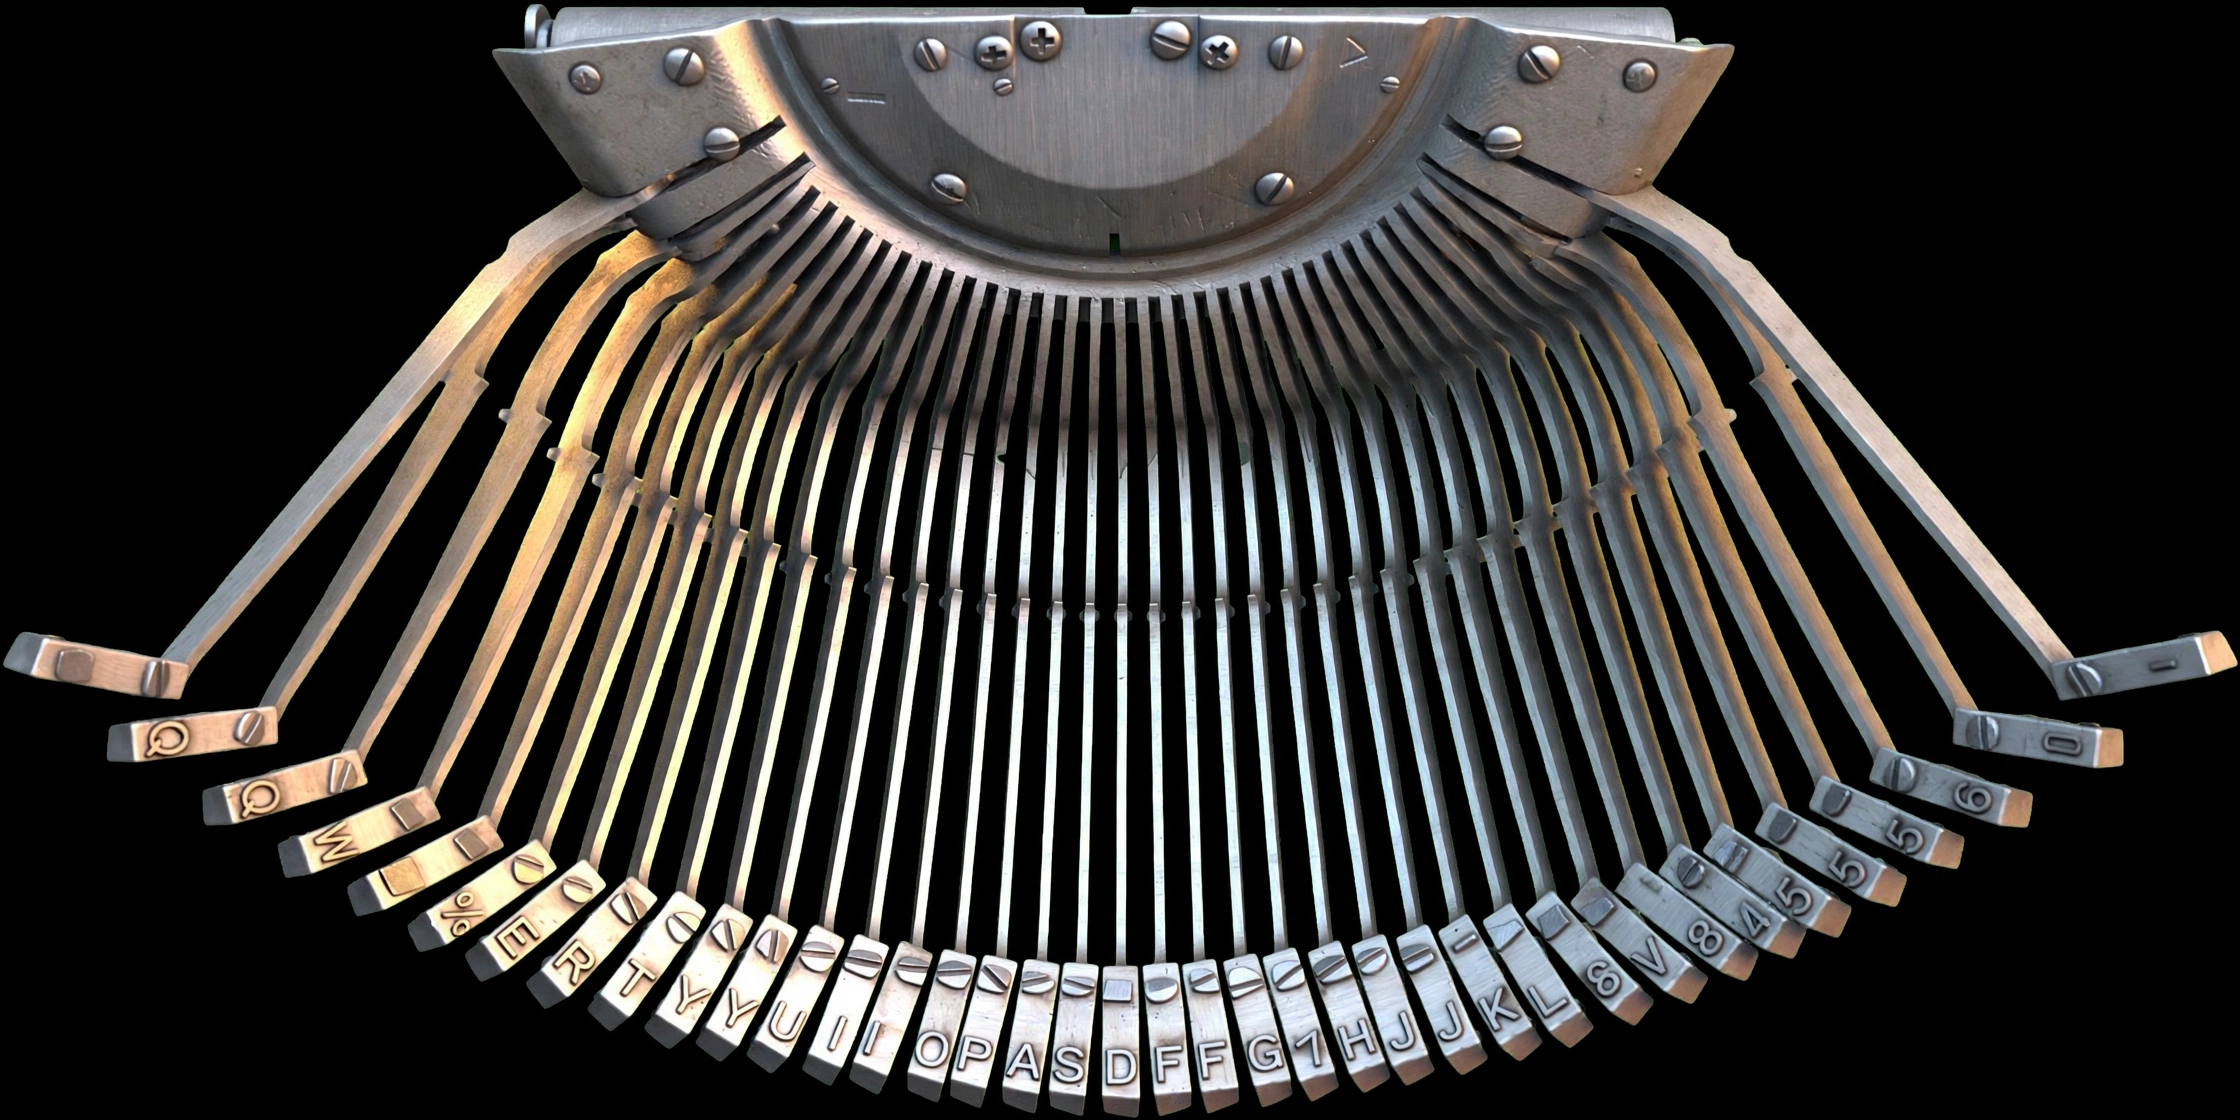
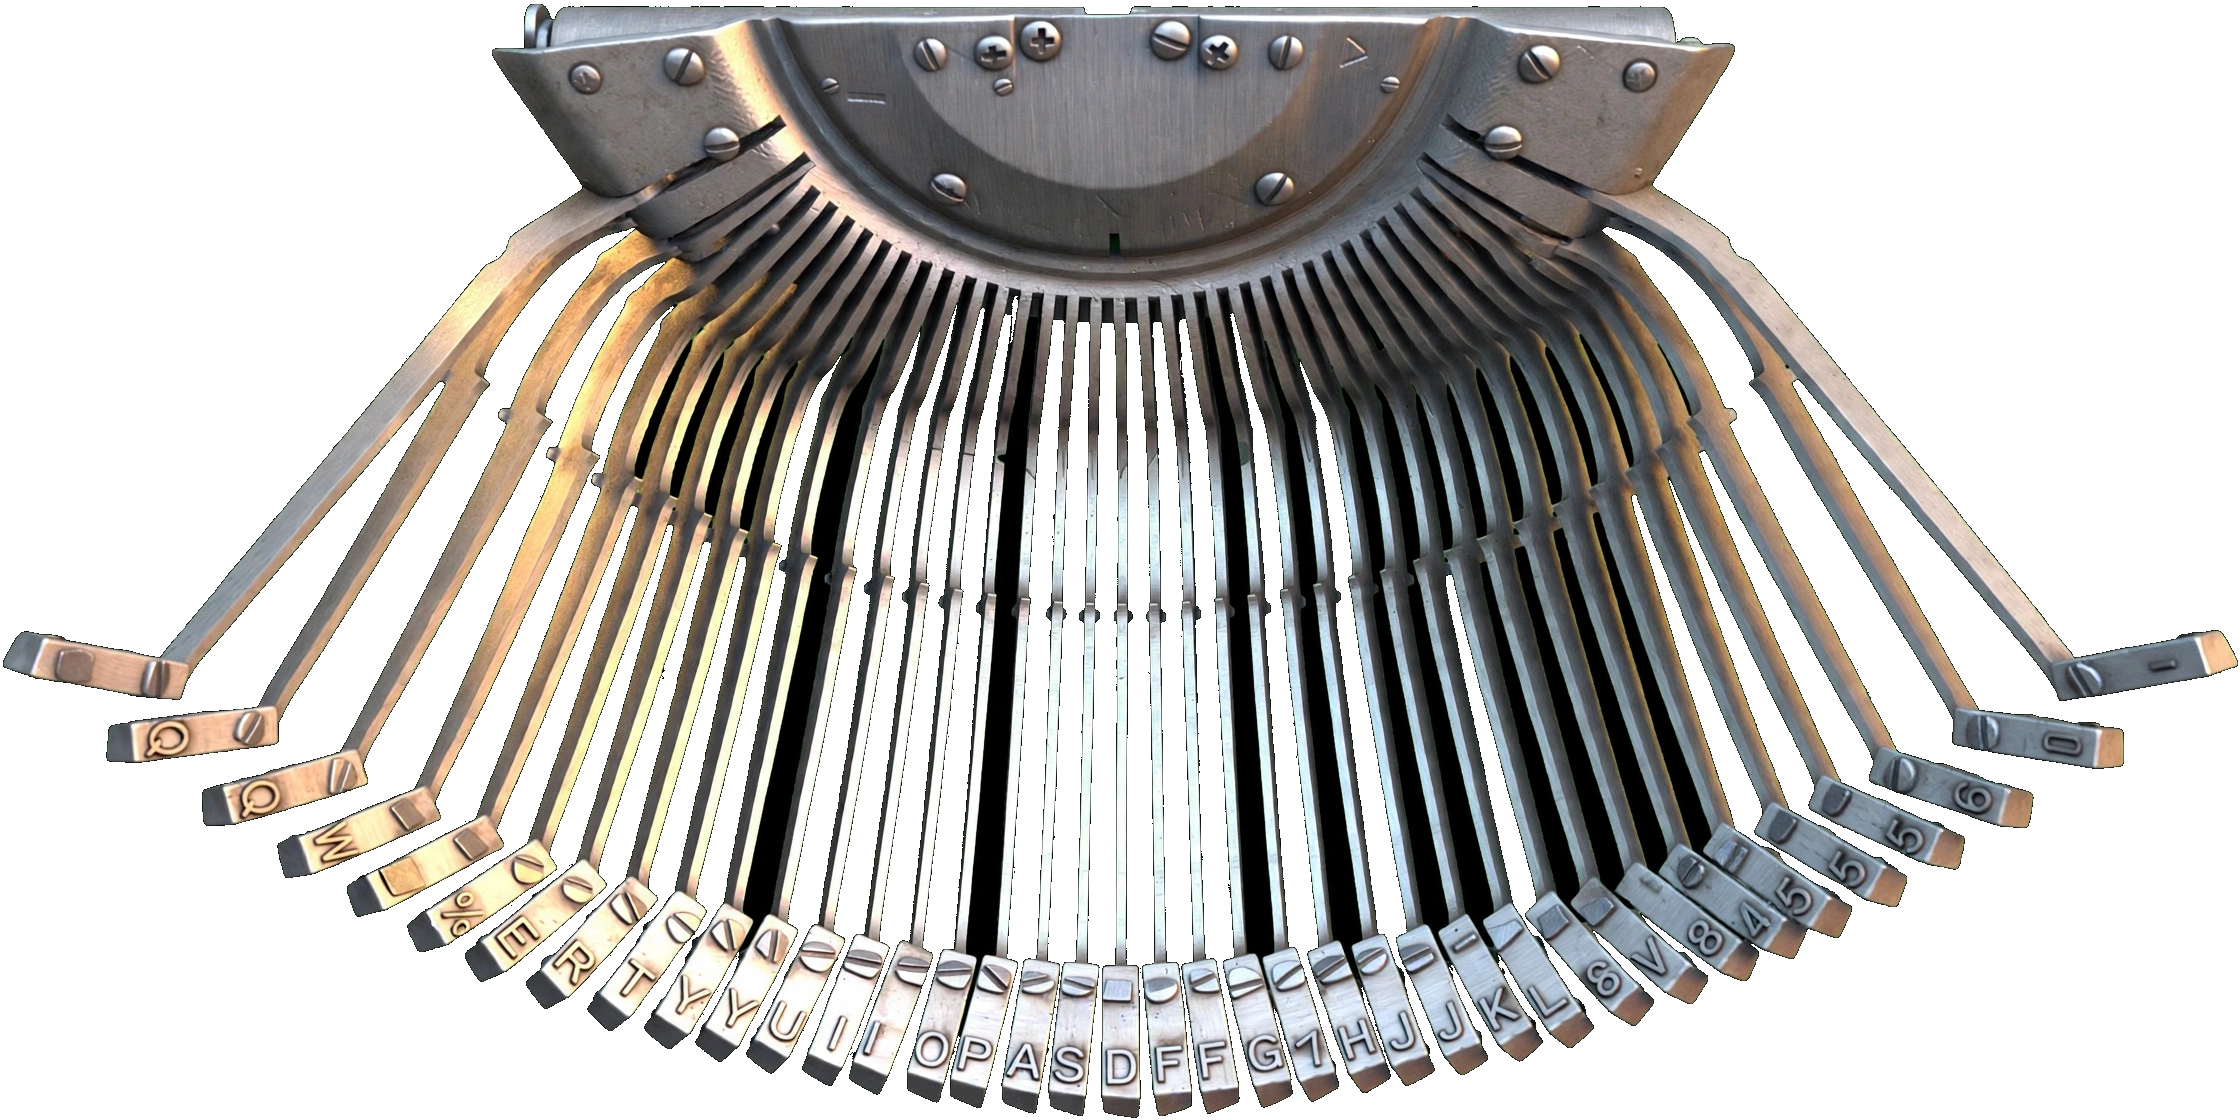
批66：功能行等比放大 + 扇图宽版（并补宽版扇图透明底）
任务1 功能行：Stage26 FUNC_ROW_H 36→67（FIXED_SUM 222.5）；Index 传参 216×36→401×67；
  FunctionCaps26.cap 四处写死值全乘 sx（键36x30、位置idx*36、下划线38x2、字体11/14、箭头盒19x20）
  dump 实测 p26_function_caps 400.8×66.9vp；PIL 六键 65.3~66.5vp / 总跨 399.6vp
  功能回归：EN cn builtin ready、RET paperTop 82.1→53.5、DEL 回 82.1

任务2 扇图：平板 basket-fan-3d-v5-wide-26.png / 手机仍 v4（fanWide=isTablet）
  盒高改「盒宽/图宽高比」而非 126.3*kx —— 否则 Contain 在高于图的盒里居中会上浮 41vp
  坑：三版 wide 图是 RGB 纯黑底（v4 是 RGBA 透明），批38 井底已去黑 => 首拍出现硬边黑窗；
  已从四角泛洪补 alpha（2.6→58% 透明），扇体贴井底（1279 vs 1282）

任务3 回归：满行 32 字、paperBox=323.1（10 行）、主链 committed/回车/退格/font cycle 全通、
  字体条 bbox 与批65 完全一致
代价：paperH 359.6→337.9（设计稿预估 329，实测 337.9），可见行数约 10 行

diff --git a/docs/evidence/p36/selfcheck.md b/docs/evidence/p36/selfcheck.md
@@ -2859,3 +2859,51 @@ PIL：空格 bbox `(317,2378)-(1311,2456)`，宽 995px＝418.9vp（基准 237×k
 
 **本步结论**：任务 1–6 的验收证据齐（2300 hilog／2301 全貌／2302 键盘／2303 空格／2304 盖板／2305 黑底／
 2306 满行／2307 主链）；2300／2303 的 PIL 数值与 hilog 有 4.8%～12vp 级差异，原因已写清。
+
+### 批 66：中间区自适应（功能行等比放大 ＋ 扇图宽版）
+
+**任务 1｜功能行等比放大**
+- `Stage26.ets:19` `FUNC_ROW_H 36 → 67`（`FIXED_SUM 191.6 → 222.5`）。
+- `Index.ets:4733` `FunctionCaps26` 传参 `widthVp 216 → 401`、`heightVp 36 → 67`。
+- `Parts26.ets` `FunctionCaps26.cap()` 四处写死值全部乘 `sx`（＝`xk()` 1.857）：
+  键 `.width(36)/.height(30)` → `36×sx / 30×sx`、`.position({x: idx*36, y: 3})` → 同乘、
+  下划线 `38×2` 与字体 `11/14`、退行箭头盒 `19×20` 一并乘。
+- **hilog**：`stage26 … paperH=337.9 basketH=145.7 keyH=371.7 fixed=222.6`。
+- **dump**：`p26_function_caps (324,1282)-(1276,1441)` → **400.8 × 66.9vp**（目标 401×67，误差 0.2/0.1）。
+- **PIL（2309 特写）**：六个键段宽 **155/158/157/155/155/155 px ＝ 65.3～66.5vp**（目标 66.9±1 ✔），
+  六键总跨 `326..1274`＝**399.6vp**（目标 401±2 ✔）。
+- 功能回归：`EN` 点击后 `cn builtin mode ready=true`（切中文）✔；`RET` `paperTop 82.1→53.5` ✔；
+  `DEL` `53.5→82.1` ✔；`Aa` 符号面板本步日志未抓到（批 64 第二十六步已单独验过，此处记账）。
+
+**任务 2｜扇图换宽版（并修掉一个设计稿没料到的坑）**
+- `Parts26.basketFanImage(machine, wide)`：`wide` 时用 `basket-fan-3d-v5-wide-26.png`，否则仍 `v4`（1.69）。
+- `Index.ets` 传 `fanWide: this.isTablet`、`fanAspect: this.isTablet ? 2.6 : 1.69`。
+- **扇盒高不用 `126.3×kx`，改成「盒宽 ÷ 图宽高比」**：`.width(213*sx).height(213*sx/fanAspect)`。
+  原因：`Contain` 在高于图的盒里**垂直居中**，若按 `126.3×1.857＝234.5` 而图只有 152.2 高，
+  图会上浮 41vp；改成盒高＝图高后 Contain 无留白，扇底天然贴井底。
+- **设计稿没料到的坑（已修）**：三版 `v5-wide-*.png` 是 **RGB 纯黑底**，
+  而原 `v4` 是 **RGBA 四角 alpha=0 的透明底**；批 38 已「井底去黑」改成薄荷绿 ⇒
+  直接用新图会得到一块 395×152 的**硬边黑窗**（首拍 2310 已实证）。
+  修法：从四角＋四边中点泛洪（阈值 26）把「与边缘连通的近黑」置 `alpha=0`，
+  保留扇体内部封闭黑缝。三版处理后：2.6 → 58% 透明、2.3 → 54%、2.0 → 52%，四角 alpha 均 0。
+- **PIL（2310 特写）**：扇体横向 `368..1228`＝**362.5vp**（盒 395.6vp，图内留透明边，占比 92%）；
+  扇中心 798≈屏心 800 ✔；扇底 `y=1279` vs 井底 `y=1282` ⇒ **贴底 ✔（差 3px 抗锯齿）**。
+- **分支作证**：`fanWide: this.isTablet`（`Index.ets` 已有 `@State isTablet`），
+  平板 true → 2.6 图；手机 false → 1.69 原图（手机井仅约 138vp，2.6 会被压扁）。
+
+**任务 3｜回归**
+- 满行（2311）：换纸后打 40 个 Q，第 1 行 **32** 个、第 2 行 8 个 ⇒ **每行 31–32 字**（与批 65 一致）；
+  `paperBox=323.1` ＝31＋10×28.6＋6 ⇒ **正好 10 行**且未滚动 ⇒ **纸区可见约 10 行** ✔。
+- 主链（2312）：`committed ch=[q]` ✔、回车 `paperTop 282.4→253.8 / paperBox 122.8→151.4` ✔、
+  退格 `253.8→282.4` ✔、`font cycle -> AnonymousPro (idx 3/17)` ✔。
+- **字体条／候选栏位置不变**：`p26_font_plate (35,1441)-(1565,1508)` 与批 65 完全一致 ✔。
+
+**代价（写清）**：纸区 359.6 → **337.9vp**（−21.7，比设计稿预估的约 329 多 9vp），
+可见行数 11.5 → **约 10 行**；字篮井 155.1 → 145.7vp（`basketH` 随剩余高变化）；
+键盘井 371.7 不变；纸宽 408.3、每行 32 字不变。
+
+**证据**：`2308_p66_full`（全貌）／`2309_p66_func_row`（功能行特写）／`2310_p66_fan`（扇特写）／
+`2311_p66_full_line`（满行）／`2312_p66_chain`（主链）。
+
+**手机**：本批只改功能行（手机功能键也会按 sx=1 保持 36×30）与扇图分支（手机仍 v4），
+手机侧未验收（按 2026-11-20 决定暂缓）。
